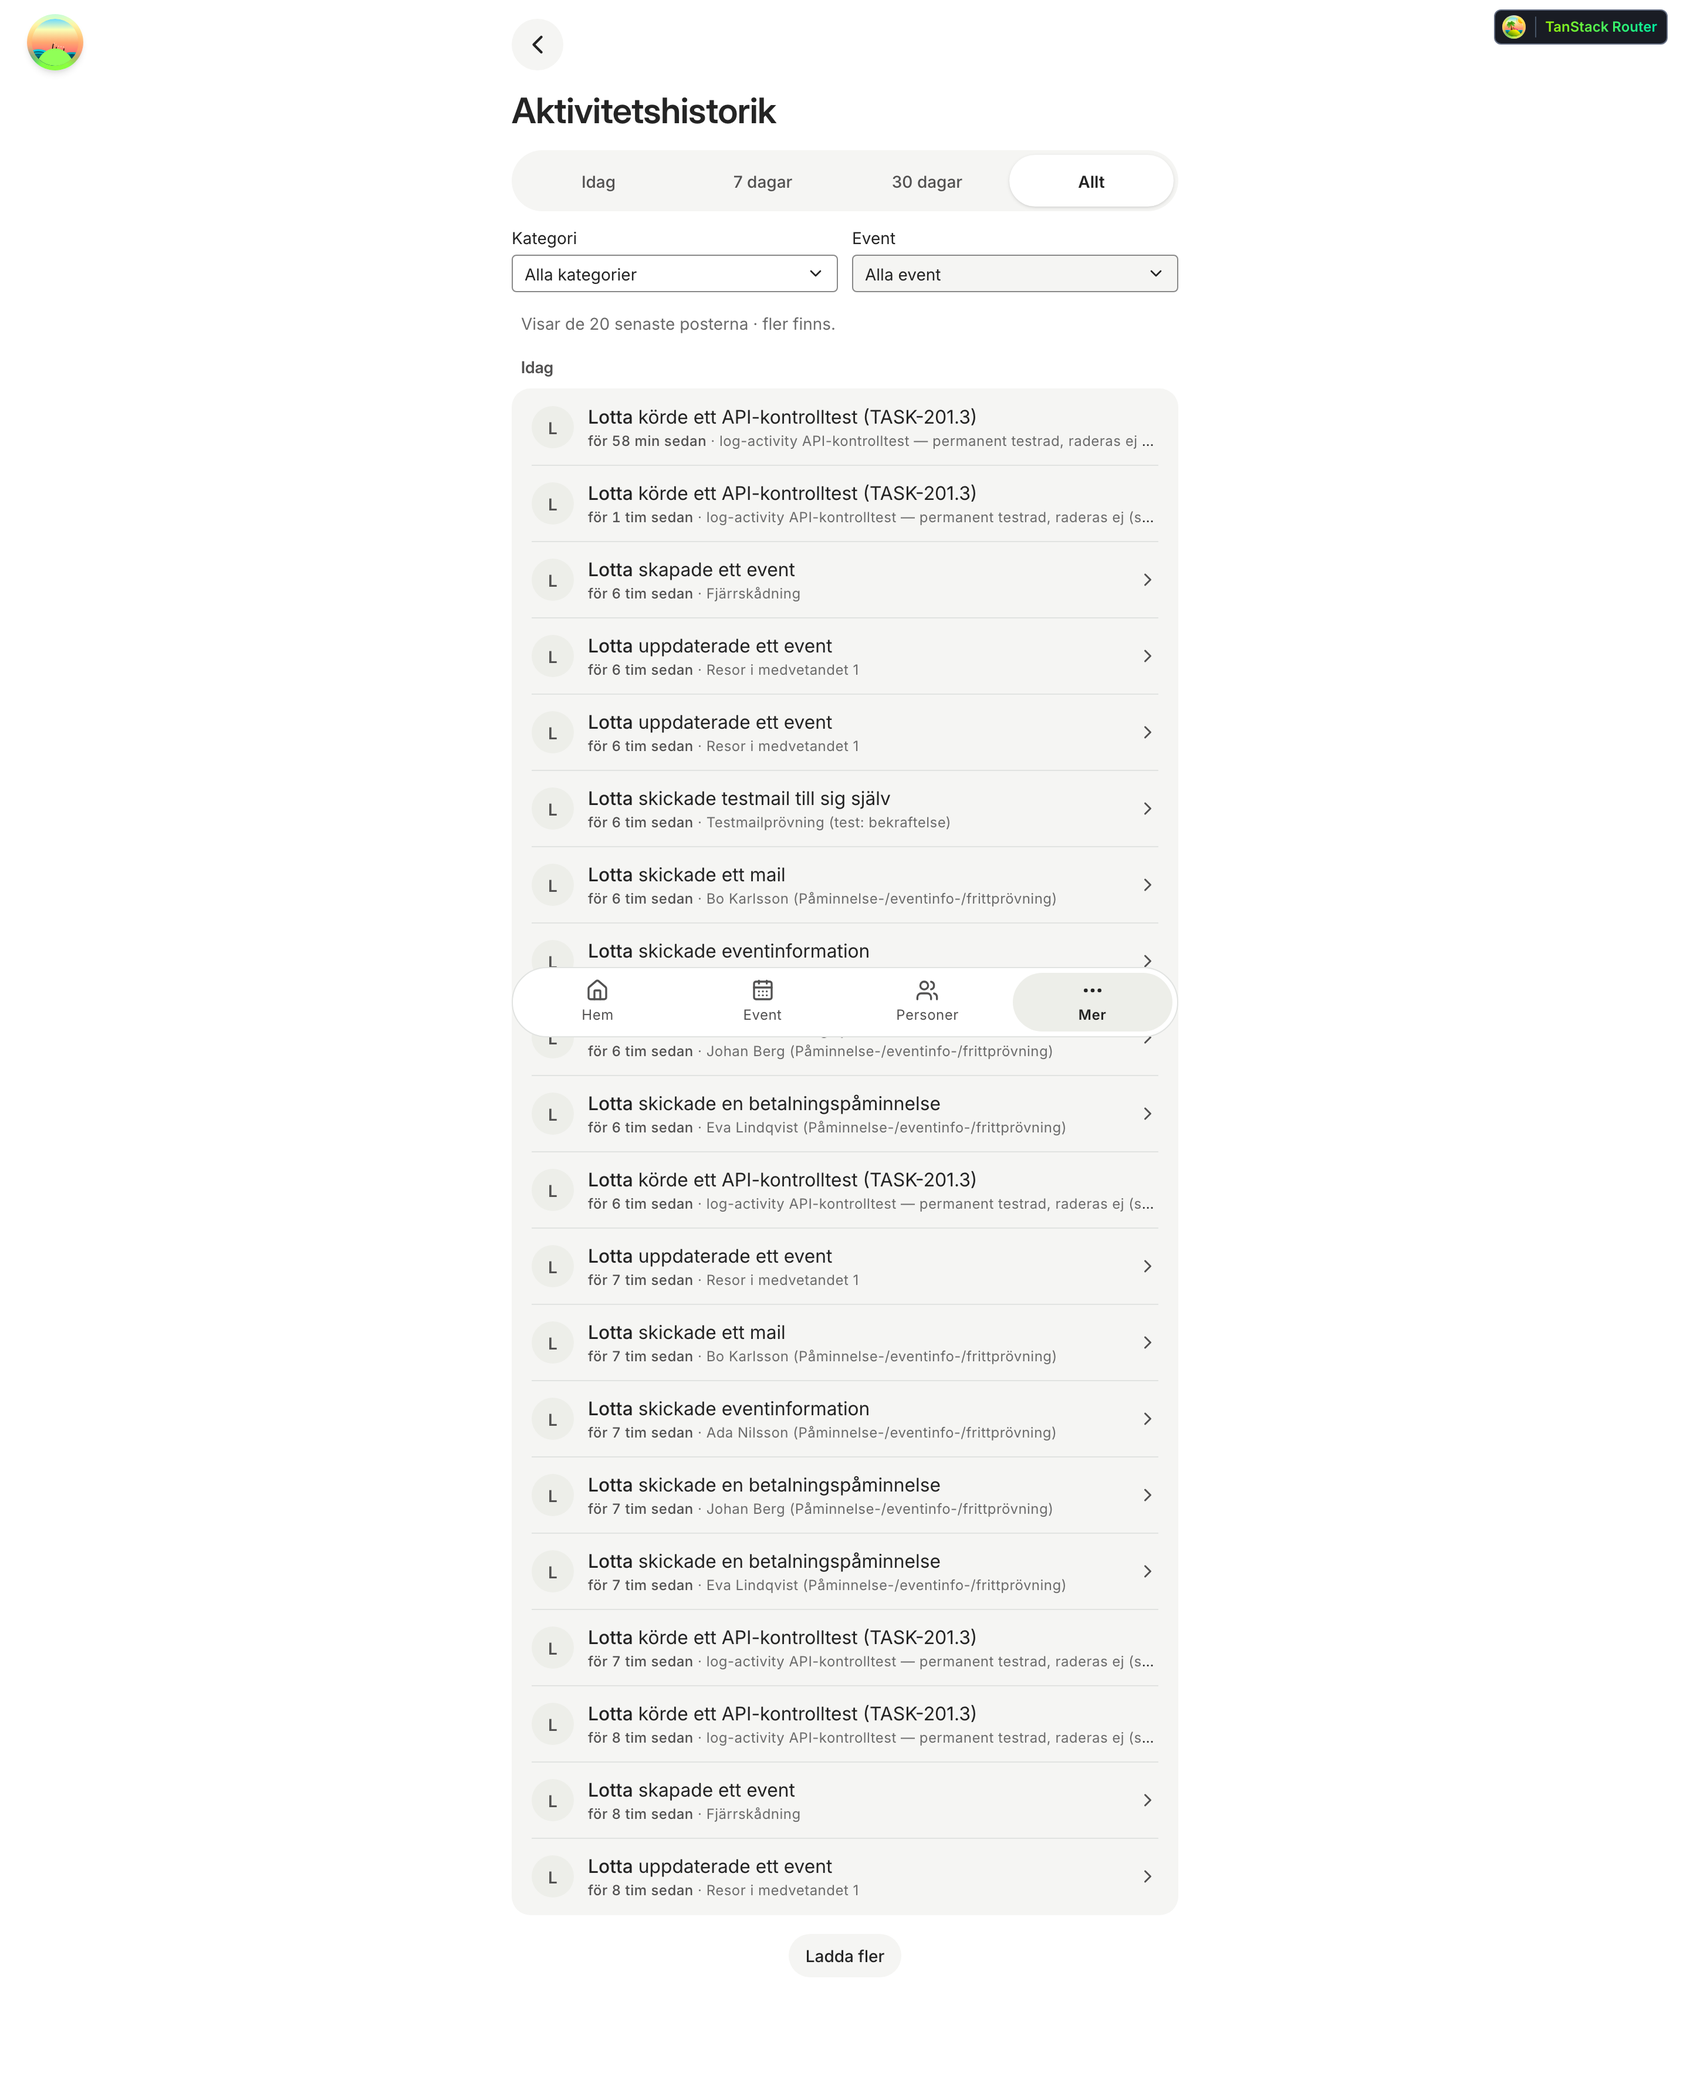
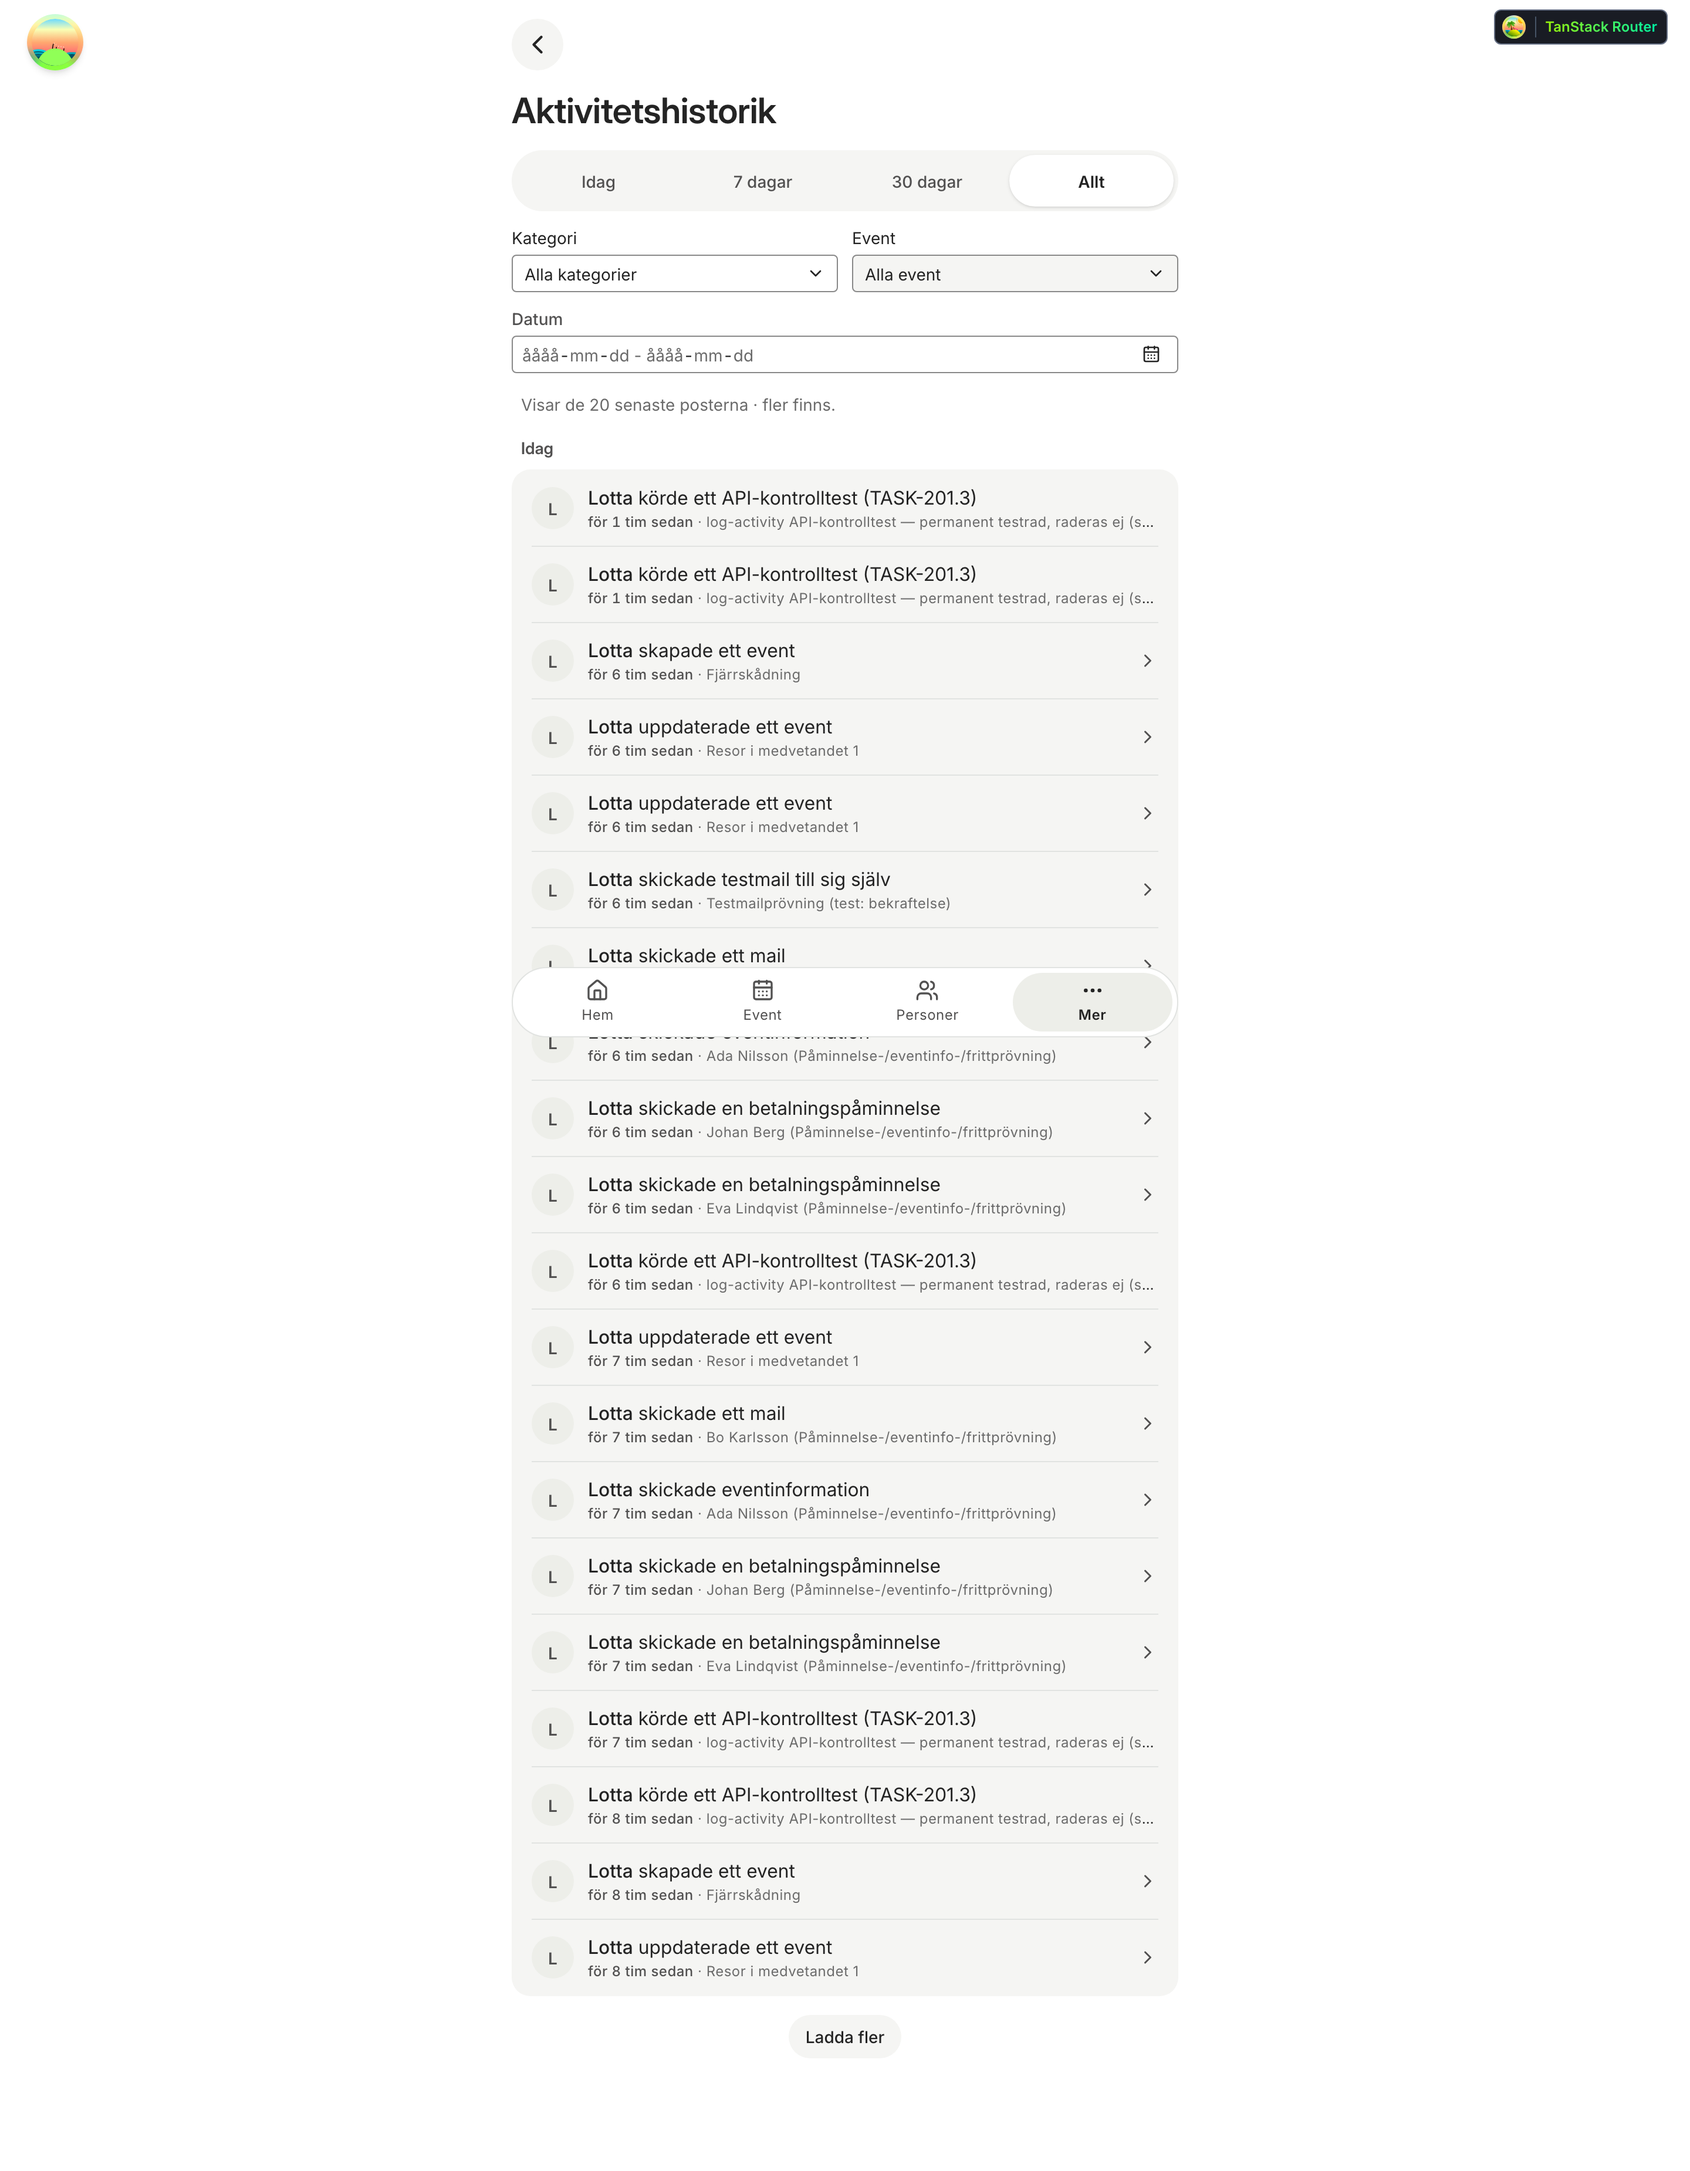
[PROTOTYPE] S106 steg 5: hover per husets listgrammatik + datumväljare via eventsidans DatumFalt

diff --git a/src/components/aktivitetshistorik/AktivitetsHistorikPrototyp.tsx b/src/components/aktivitetshistorik/AktivitetsHistorikPrototyp.tsx
@@ -1,9 +1,15 @@
+import { type CalendarDate, parseDate } from '@internationalized/date';
 import { useQuery } from '@tanstack/react-query';
 import { Link } from '@tanstack/react-router';
 import { ChevronLeft, ChevronRight } from 'lucide-react';
 import { parseAsString, parseAsStringEnum, useQueryState } from 'nuqs';
 import { useEffect, useMemo, useRef, useState } from 'react';
 import { Button as AriaButton } from 'react-aria-components';
+// [PROTOTYPE] S106 steg 5 — cross-feature-import med avsikt: DatumFalt är
+// eventsidans S73-facit-form (RAC DateRangePicker + RangeCalendar-popover).
+// Detta är det BEVISADE DELBEHOV dess eget filhuvud villkorar primitiv-lyft
+// på — lyftet till src/components/primitives/ bokförs i promoverings-skivan.
+import { DatumFalt } from '@/components/events/detail/DatumFalt';
 import { MessageBox } from '@/components/primitives/MessageBox';
 import { Select, SelectItem } from '@/components/primitives/Select';
 import { Skeleton } from '@/components/primitives/Skeleton';
@@ -389,7 +395,7 @@ function AktivitetsRad({
         {initialer(statement.actor.name)}
       </span>
       <div className="flex min-w-0 flex-1 flex-col">
-        <p className="truncate text-body">
+        <p className="truncate text-body underline-offset-2 group-hover:underline">
           <span className="font-medium">{statement.actor.name}</span> {handelse}
         </p>
         <p className="truncate text-caption">
@@ -400,29 +406,26 @@ function AktivitetsRad({
     </>
   );
 
-  const radKlass = '-mx-4 flex min-h-16 items-center gap-3 px-4 py-2.5';
+  /* [PROTOTYPE] S106 steg 5 — hover per HUSETS divide-y-grammatik (Marcus
+   * 2026-08-15: bakgrunds-tinten skar sig mot separatorlinjerna): ingen
+   * rad-bakgrund vid hover — personlistans affordans i stället
+   * (`hover:underline` på textblocket via group; chevronen bär resten).
+   * `-mx-4`-tricket och listans `overflow-hidden` revs med tinten. */
+  const radKlass = 'group flex min-h-16 items-center gap-3 py-2.5';
   return (
     <li>
       {eventId ? (
-        <Link
-          to="/event/$eventId"
-          params={{ eventId }}
-          className={`${radKlass} hover:bg-bg-emphasized`}
-        >
+        <Link to="/event/$eventId" params={{ eventId }} className={radKlass}>
           {innehall}
           <ChevronRight aria-hidden="true" size={18} className="shrink-0 text-text-secondary" />
         </Link>
       ) : personId ? (
-        <Link
-          to="/personer/$personId"
-          params={{ personId }}
-          className={`${radKlass} hover:bg-bg-emphasized`}
-        >
+        <Link to="/personer/$personId" params={{ personId }} className={radKlass}>
           {innehall}
           <ChevronRight aria-hidden="true" size={18} className="shrink-0 text-text-secondary" />
         </Link>
       ) : (
-        <div className={radKlass}>{innehall}</div>
+        <div className="flex min-h-16 items-center gap-3 py-2.5">{innehall}</div>
       )}
     </li>
   );
@@ -436,7 +439,7 @@ function LaddLage() {
     <div className="flex flex-col gap-4" aria-busy="true">
       <span className="sr-only">Laddar aktivitetshistorik…</span>
       <Skeleton variant="text" className="w-24 text-small" />
-      <div className="divide-y divide-border overflow-hidden rounded-2xl border border-transparent bg-bg-muted px-4">
+      <div className="divide-y divide-border rounded-2xl border border-transparent bg-bg-muted px-4">
         {[0, 1, 2, 3].map((i) => (
           <div key={i} className="flex min-h-16 items-center gap-3 py-2.5">
             <Skeleton variant="text" className="size-9 shrink-0 rounded-full" />
@@ -480,6 +483,8 @@ function FilterRad({
   onEventChange,
   tidsperiod,
   onTidsperiodChange,
+  datumSpann,
+  onDatumSpannChange,
 }: {
   kategori: KategoriKey | null;
   onKategoriChange: (varde: KategoriKey | null) => void;
@@ -489,6 +494,8 @@ function FilterRad({
   onEventChange: (varde: string | null) => void;
   tidsperiod: Tidsperiod;
   onTidsperiodChange: (varde: Tidsperiod) => void;
+  datumSpann: { start: CalendarDate; end: CalendarDate } | null;
+  onDatumSpannChange: (v: { start: CalendarDate; end: CalendarDate } | null) => void;
 }) {
   /* [PROTOTYPE] S106 steg 2 — FILTERRADEN UPPDELAD (Marcus 2026-08-15: tre
    * kontroller på samma rad "ser extremt ihoptryckt ut"). Husets stapling
@@ -546,6 +553,19 @@ function FilterRad({
             </SelectItem>
           ))}
         </Select>
+      </div>
+
+      {/* [PROTOTYPE] S106 steg 5 — DATUMVÄLJAREN (Marcus 2026-08-15:
+          "välja en specifik dag att se vad som hände då"). Eventsidans
+          DatumFalt återanvänds: en dag = samma start/slut i kalendern, ett
+          spann fungerar också. Hela datakedjan fanns redan (EF:ens
+          from/to-range mot occurred_at · adapterns ActivityLogParams ·
+          ActivityLogFilters) — ingen backend-ändring. Ett valt spann
+          ÅSIDOSÄTTER tidsperiod-togglen; ett toggle-val rensar spannet
+          (ömsesidigt exklusiva, en tidsfiltrering i taget). */}
+      <div className="flex flex-col gap-1">
+        <span className="font-medium text-small text-text-secondary">Datum</span>
+        <DatumFalt value={datumSpann} onChange={onDatumSpannChange} />
       </div>
     </div>
   );
@@ -606,15 +626,53 @@ export function AktivitetsHistorikPrototyp() {
     parseAsStringEnum(TIDSPERIOD_VALUES).withDefault('allt').withOptions({ history: 'push' }),
   );
 
-  // `from` beräknas ENDAST om `tidsperiod` faktiskt ändras (useMemo keyad på
-  // den ensam) — INTE varje render. `Date.now()` inline i queryKeyen hade
-  // gett en NY sträng (och därmed ny cache-post/refetch) varje render;
-  // samma disciplin som `EventsList.tsx`/`EventValjare.tsx`s `idagStart`.
-  const from = useMemo(() => tidsperiodFran(tidsperiod, Date.now()), [tidsperiod]);
+  // [PROTOTYPE] S106 steg 5 — datumspannet i URL:en som två fria
+  // ISO-datumsträngar (URL-STATE-SPEC:s `parseAsString`-mönster för
+  // datadrivna värden, samma som `?event`). `parseDate` valideras defensivt:
+  // en handredigerad ogiltig URL ger null-spann, aldrig en krasch.
+  const [fran, setFran] = useQueryState('fran', parseAsString.withOptions({ history: 'push' }));
+  const [till, setTill] = useQueryState('till', parseAsString.withOptions({ history: 'push' }));
+  const datumSpann = useMemo(() => {
+    if (!fran || !till) return null;
+    try {
+      return { start: parseDate(fran), end: parseDate(till) };
+    } catch {
+      return null;
+    }
+  }, [fran, till]);
+  const valjDatumSpann = (v: { start: CalendarDate; end: CalendarDate } | null) => {
+    setFran(v ? v.start.toString() : null);
+    setTill(v ? v.end.toString() : null);
+    // Ömsesidig exklusivitet: spannet ersätter tidsperioden helt.
+    if (v) setTidsperiod(null);
+  };
+  const valjTidsperiod = (t: Tidsperiod) => {
+    setTidsperiod(t);
+    setFran(null);
+    setTill(null);
+  };
+
+  // `from`/`to` beräknas ENDAST när filtren faktiskt ändras (useMemo) —
+  // INTE varje render. `Date.now()` inline i queryKeyen hade gett en NY
+  // sträng (och därmed ny cache-post/refetch) varje render; samma disciplin
+  // som `EventsList.tsx`/`EventValjare.tsx`s `idagStart`. Spann-grenen:
+  // lokal dygnsgräns → ISO (Lottas dag, inte UTC-dygnet).
+  const from = useMemo(
+    () =>
+      datumSpann
+        ? new Date(`${datumSpann.start.toString()}T00:00:00`).toISOString()
+        : tidsperiodFran(tidsperiod, Date.now()),
+    [datumSpann, tidsperiod],
+  );
+  const to = useMemo(
+    () =>
+      datumSpann ? new Date(`${datumSpann.end.toString()}T23:59:59.999`).toISOString() : undefined,
+    [datumSpann],
+  );
   const kategoriIri = kategori ? ACTIVITY_OBJECT_TYPES[kategori] : undefined;
 
   const { data, isPending, isError, error, hasNextPage, isFetchingNextPage, fetchNextPage } =
-    useActivityLogHistory({ category: kategoriIri, eventId: eventId ?? undefined, from });
+    useActivityLogHistory({ category: kategoriIri, eventId: eventId ?? undefined, from, to });
 
   // Event-dropdownens alternativ — delar queryKey med EventValjare/EventsList
   // (varm cache vid navigering från Event; se FilterRad-komponentens huvud).
@@ -640,11 +698,14 @@ export function AktivitetsHistorikPrototyp() {
     [eventsData],
   );
 
-  const filterAktiv = kategori != null || eventId != null || tidsperiod !== 'allt';
+  const filterAktiv =
+    kategori != null || eventId != null || tidsperiod !== 'allt' || datumSpann != null;
   const rensaFilter = () => {
     setKategori(null);
     setEventId(null);
     setTidsperiod(null);
+    setFran(null);
+    setTill(null);
     // Filterraden stannar monterad (keepPreviousData), men RESULTATLISTAN
     // byts ut under fötterna på "Rensa filter"-knappen (den unmountas med
     // tomläget) — flytta fokus till den stabila h1:an i stället för att
@@ -773,7 +834,9 @@ export function AktivitetsHistorikPrototyp() {
         eventerLaddar={eventerLaddar}
         onEventChange={setEventId}
         tidsperiod={tidsperiod}
-        onTidsperiodChange={setTidsperiod}
+        onTidsperiodChange={valjTidsperiod}
+        datumSpann={datumSpann}
+        onDatumSpannChange={valjDatumSpann}
       />
 
       {total === 0 ? (
@@ -848,7 +911,7 @@ export function AktivitetsHistorikPrototyp() {
                 <h2 className="px-2 font-semibold text-small text-text-secondary">{grupp.label}</h2>
                 <ul
                   aria-label={`Aktiviteter, ${grupp.label.toLowerCase()}`}
-                  className="divide-y divide-border overflow-hidden rounded-2xl border border-transparent bg-bg-muted px-4 contrast-more:border-border-strong"
+                  className="divide-y divide-border rounded-2xl border border-transparent bg-bg-muted px-4 contrast-more:border-border-strong"
                 >
                   {grupp.statements.map((s) => (
                     <AktivitetsRad key={s.id} statement={s} grupp={grupp.label} nuMs={nuMs} />
